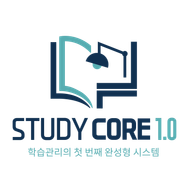
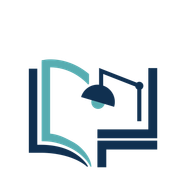
fix: 파비콘/아이콘 전면 교체 — 로고 아이콘 마크로 통일
기존 favicon.ico는 Next.js 기본값이었음. 정사각 로고에서 책+스탠드
아이콘 마크만 크롭하여 각 사이즈 생성:
- src/app/icon.png (48x48) — 브라우저 파비콘
- public/icon-192x192.png — PWA 아이콘
- public/icon-512x512.png — PWA 아이콘 (대)
- public/apple-touch-icon.png (180x180) — Apple 터치 아이콘

Changed region(s): [[0.0625, 0.1875, 0.9375, 0.875]]

diff --git a/src/app/layout.tsx b/src/app/layout.tsx
@@ -61,8 +61,8 @@ export const metadata: Metadata = {
   manifest: "/manifest.json",
   icons: {
     icon: [
-      { url: "/favicon.ico", sizes: "any" },
       { url: "/icon-192x192.png", sizes: "192x192", type: "image/png" },
+      { url: "/icon-512x512.png", sizes: "512x512", type: "image/png" },
     ],
     apple: [
       { url: "/apple-touch-icon.png", sizes: "180x180", type: "image/png" },